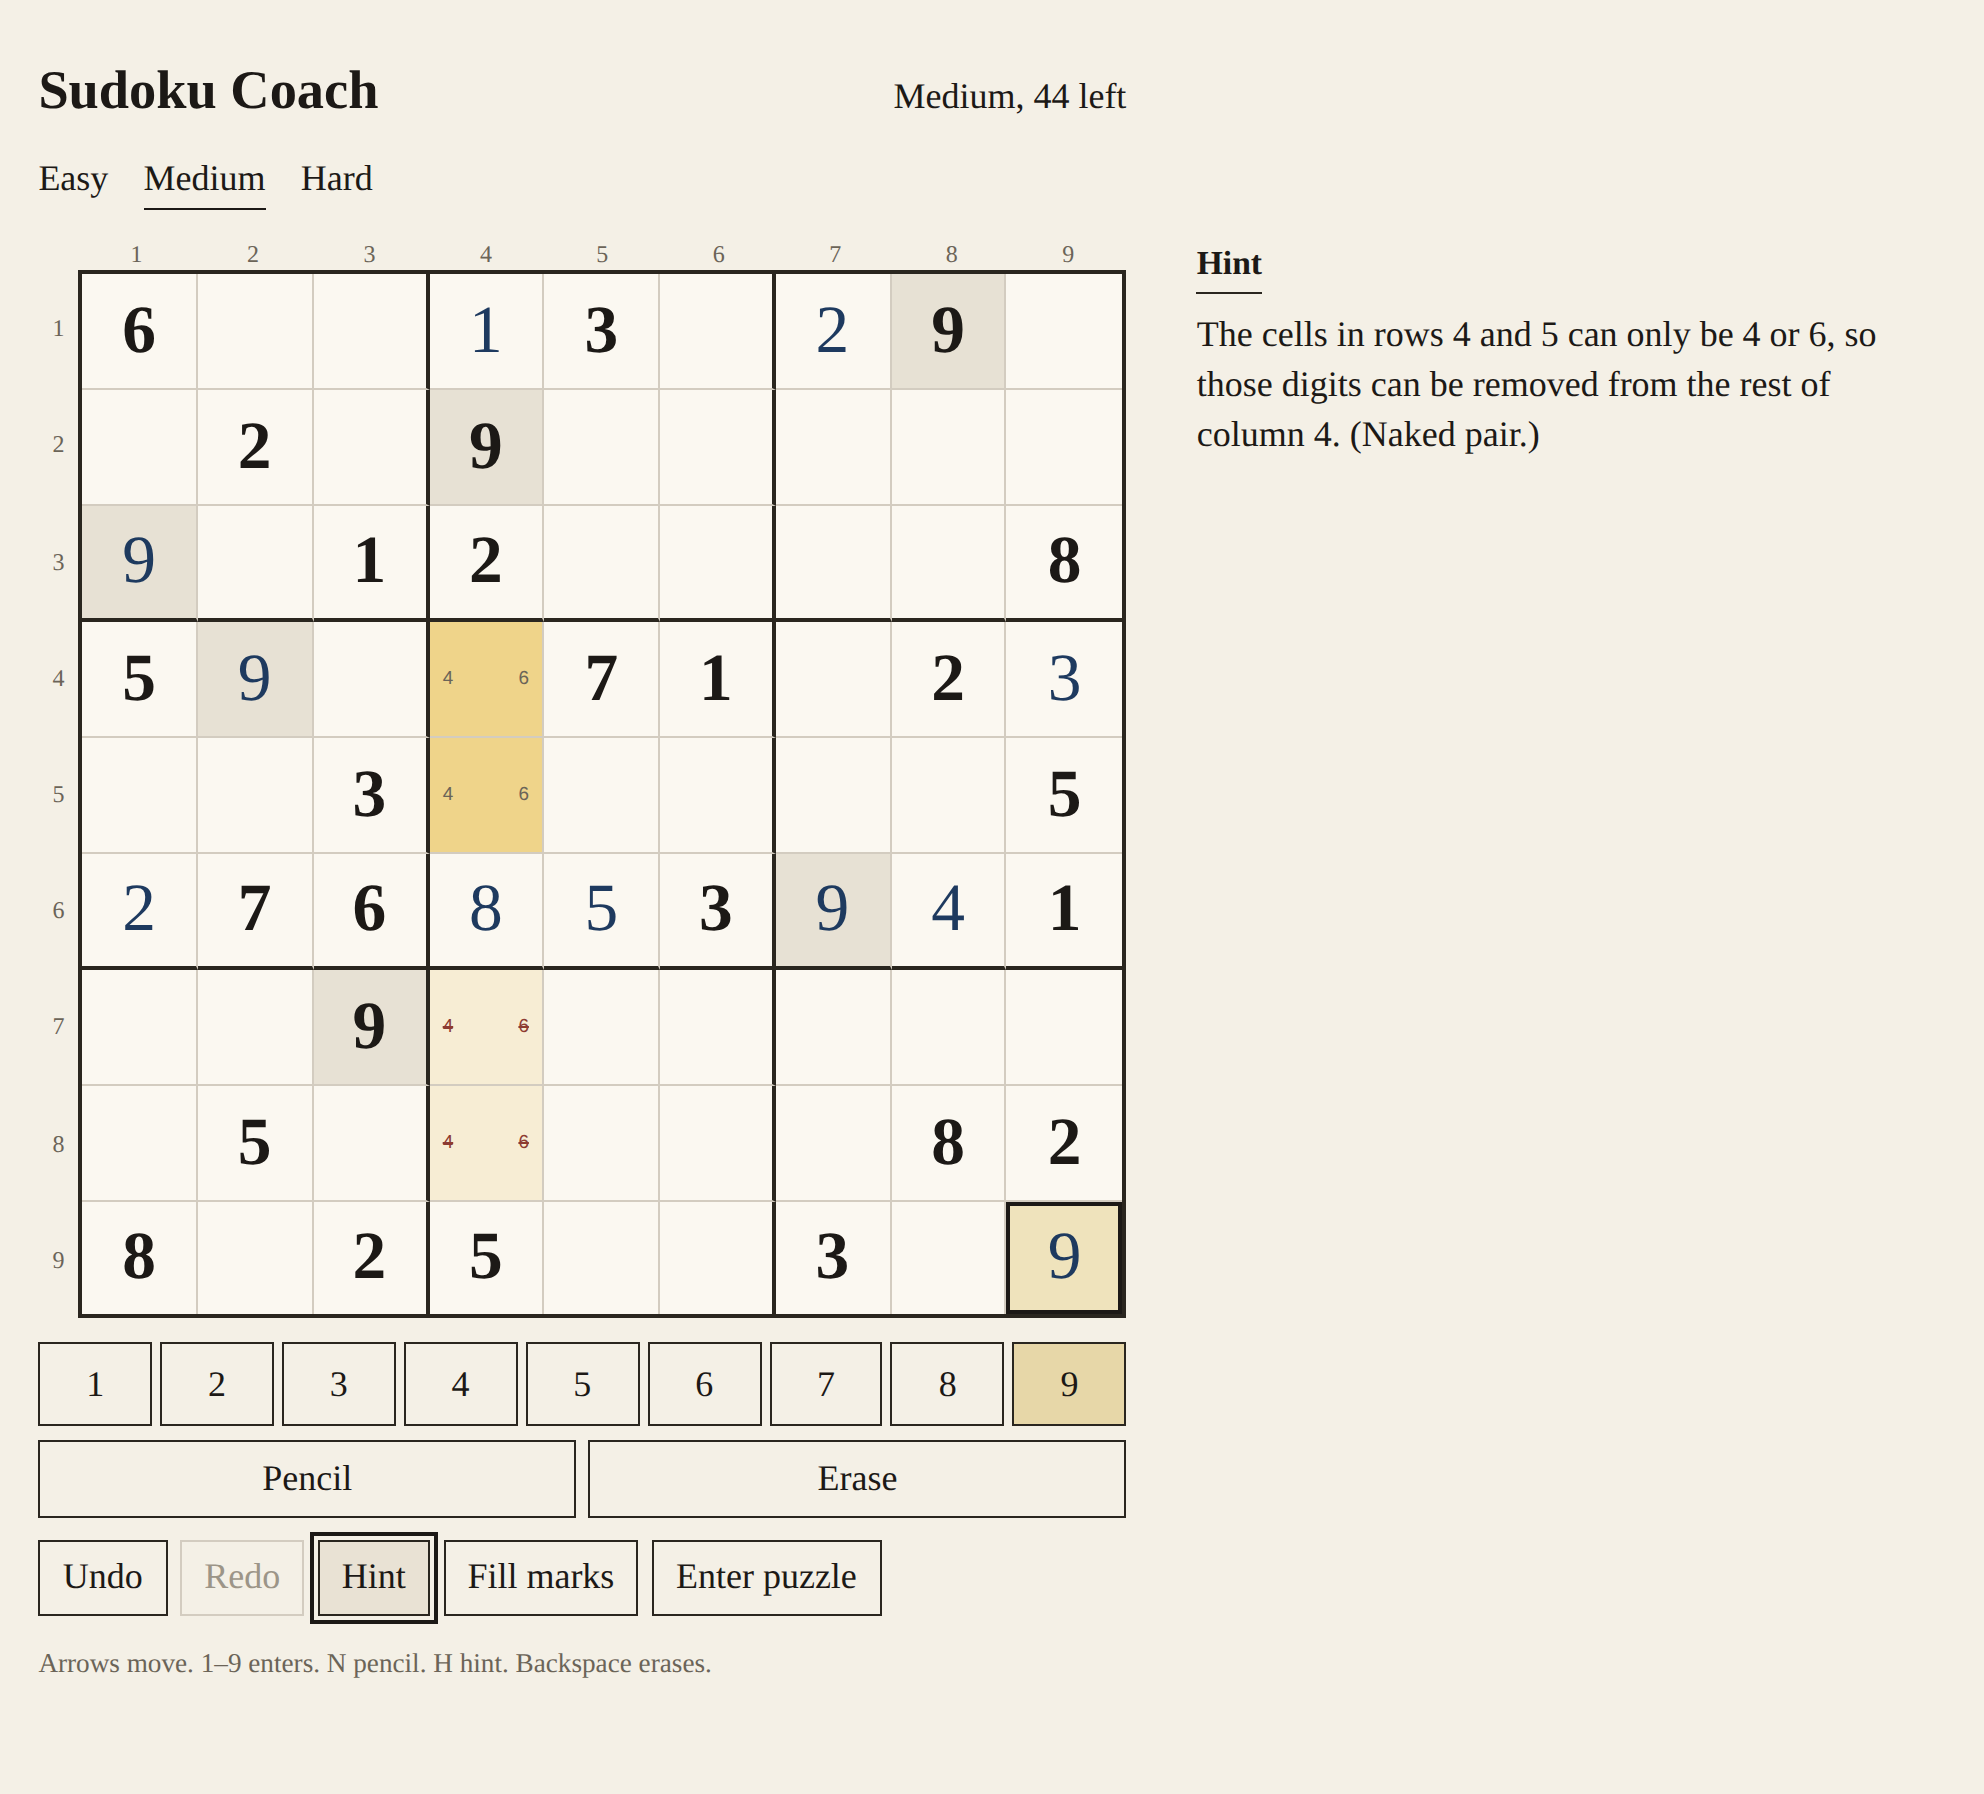
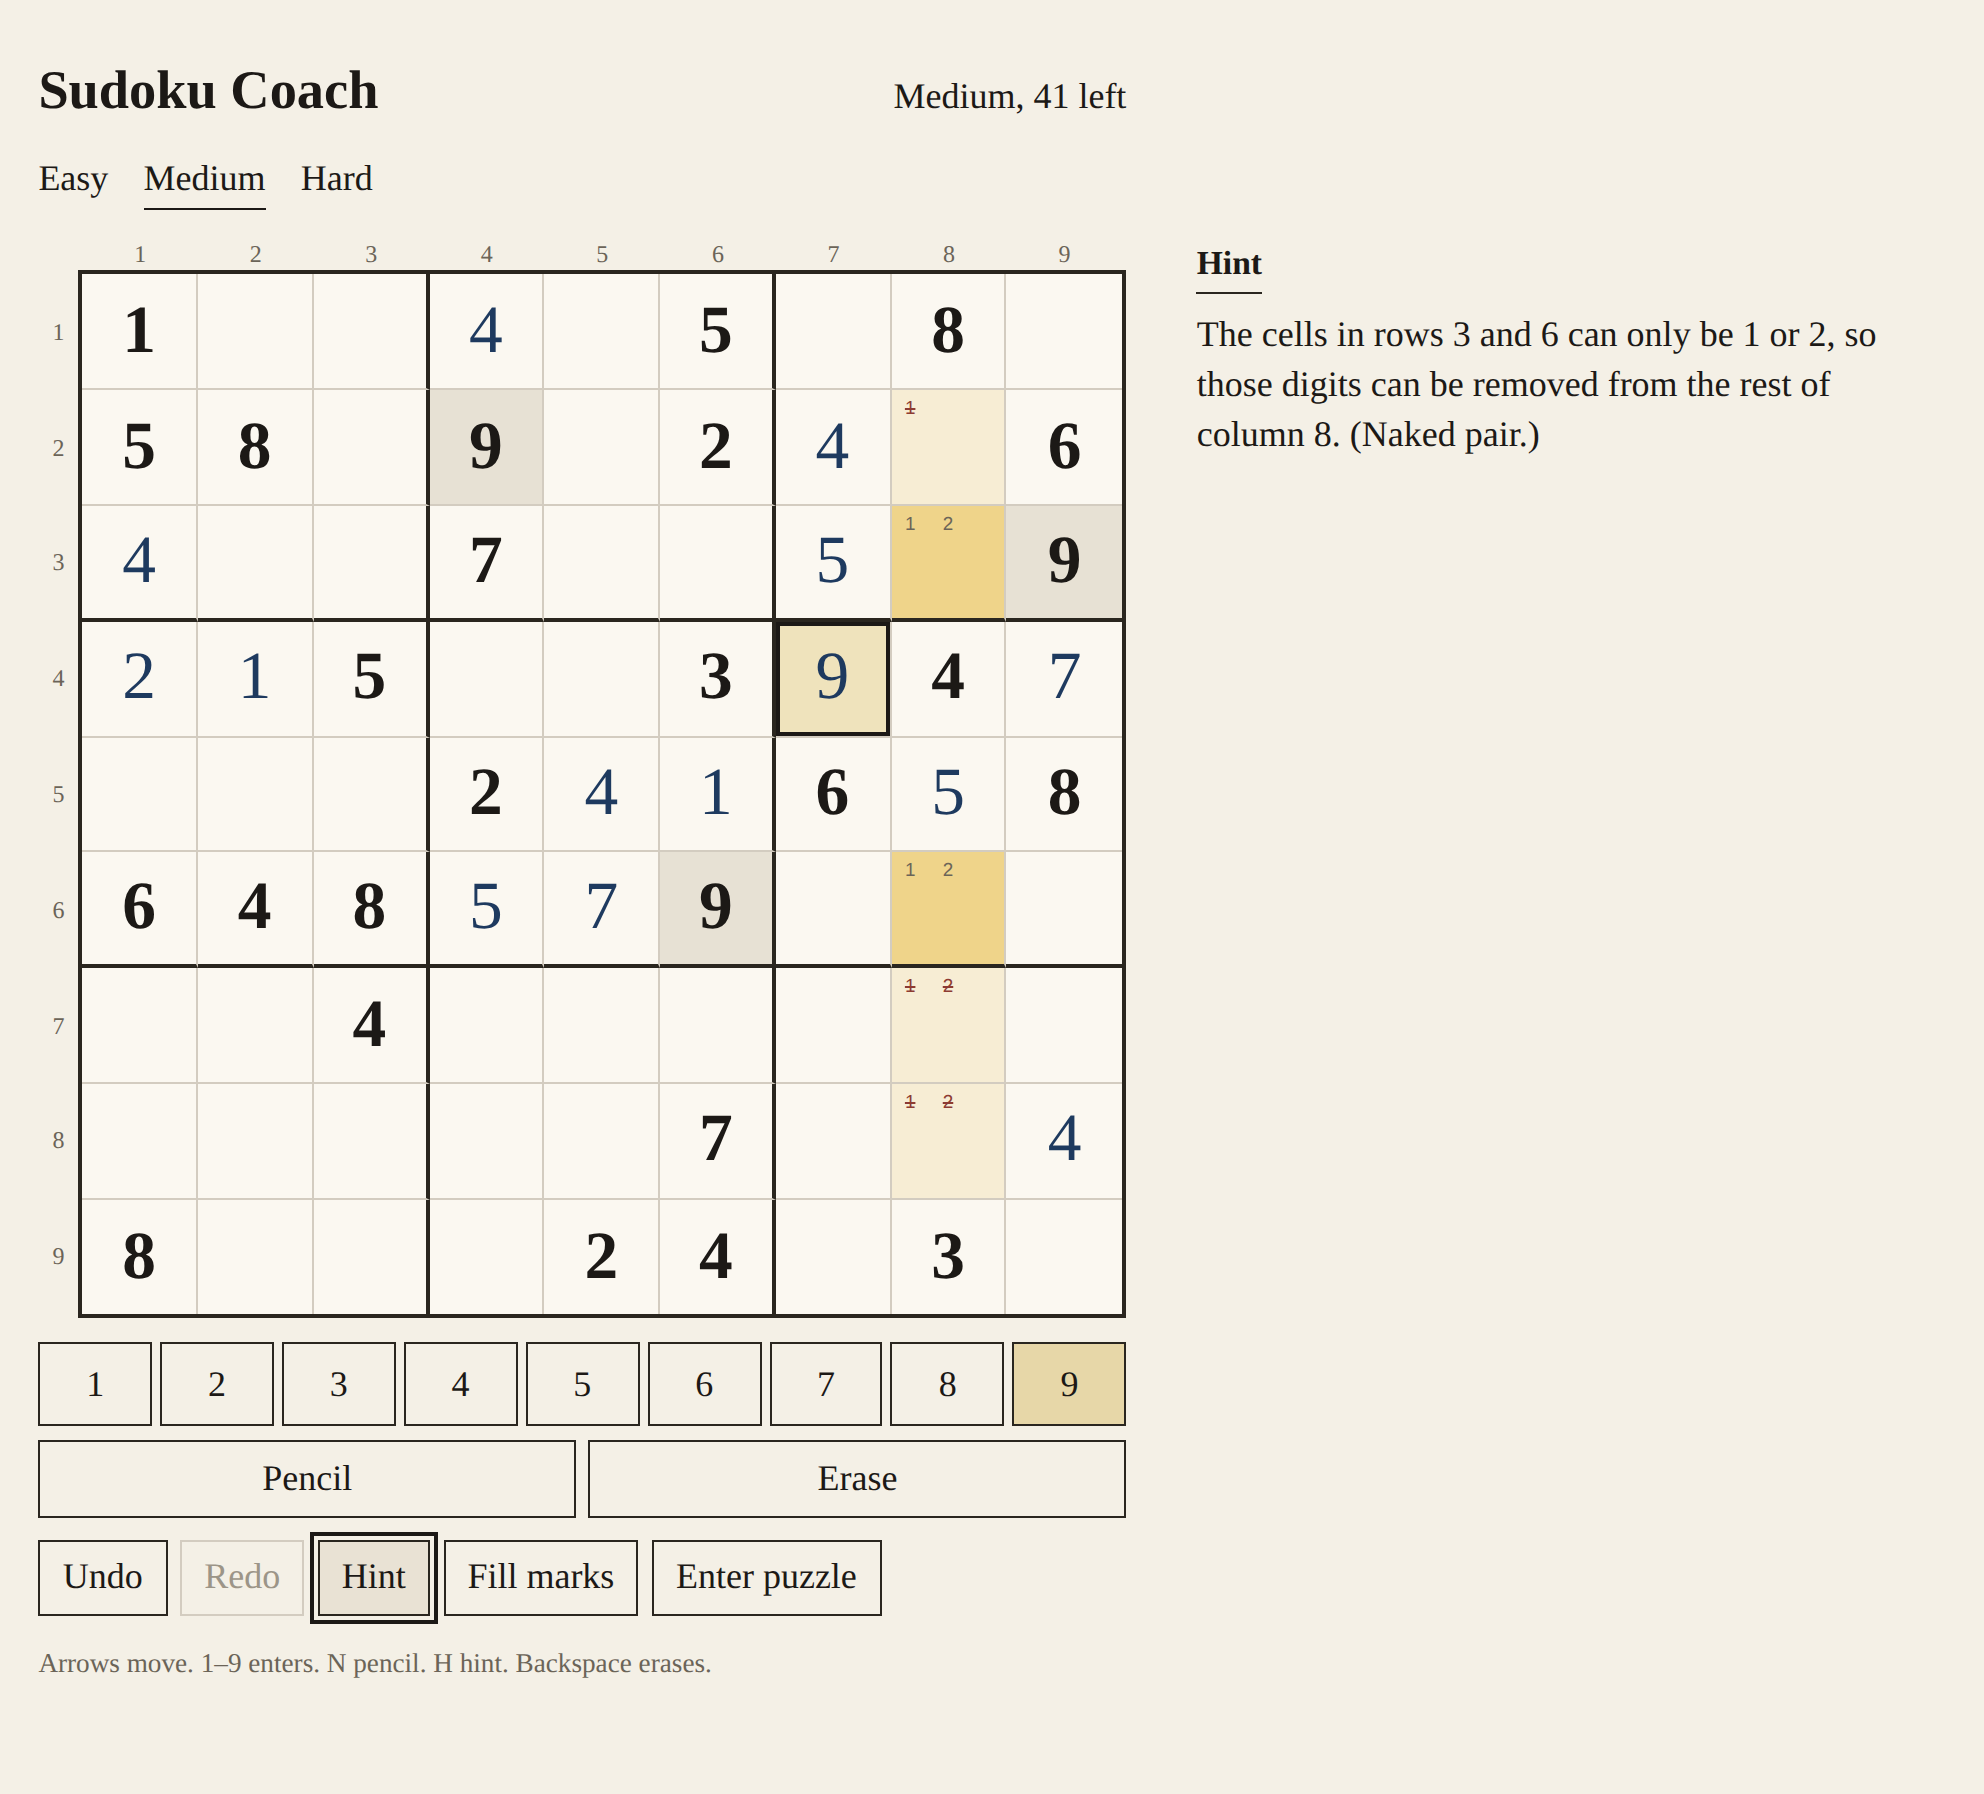
Keep empty rows the same size as the rest of the grid
A row with no clues was collapsing to the height of its content.

diff --git a/src/style.css b/src/style.css
@@ -119,6 +119,8 @@ button:focus-visible {
   display: grid;
   grid-template-columns: repeat(9, 1fr);
   margin-left: 1.25rem;
+  padding: 0 2px;
+  box-sizing: border-box;
   color: var(--pencil);
   font-size: 0.75rem;
   text-align: center;
@@ -132,6 +134,8 @@ button:focus-visible {
 .rows {
   display: grid;
   grid-template-rows: repeat(9, 1fr);
+  padding: 2px 0;
+  box-sizing: border-box;
   color: var(--pencil);
   font-size: 0.75rem;
 }
@@ -146,7 +150,7 @@ button:focus-visible {
 .board {
   display: grid;
   grid-template-columns: repeat(9, 1fr);
-  aspect-ratio: 1;
+  width: 100%;
   border: 2px solid var(--line);
   background: var(--sheet);
   font-size: 6.2cqi;
@@ -159,8 +163,9 @@ button:focus-visible {
   display: flex;
   align-items: center;
   justify-content: center;
+  aspect-ratio: 1;
+  width: 100%;
   min-width: 0;
-  min-height: 0;
   padding: 0;
   border: none;
   border-right: 1px solid var(--hair);
